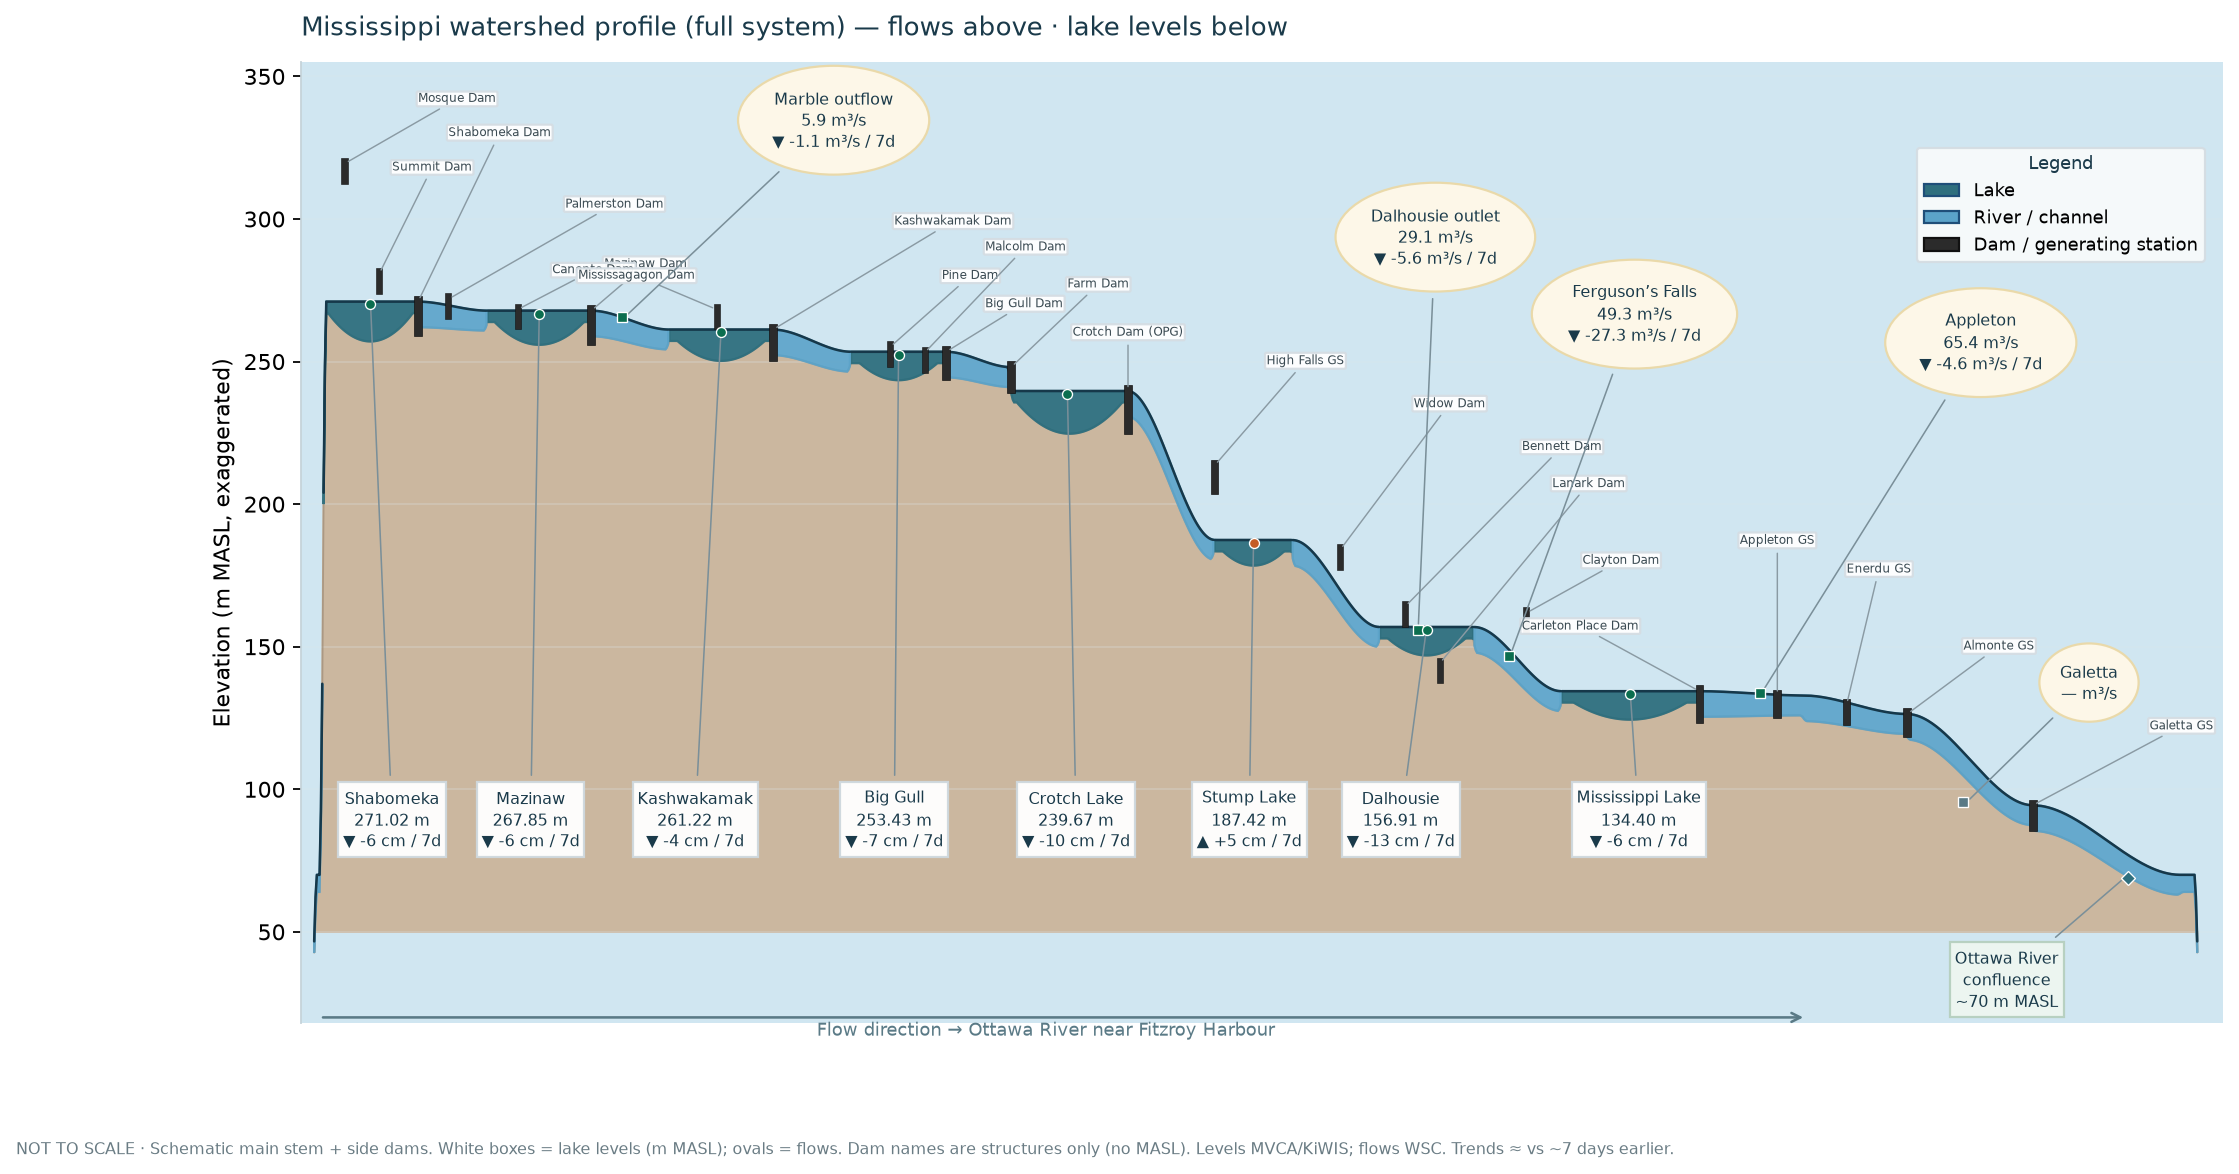
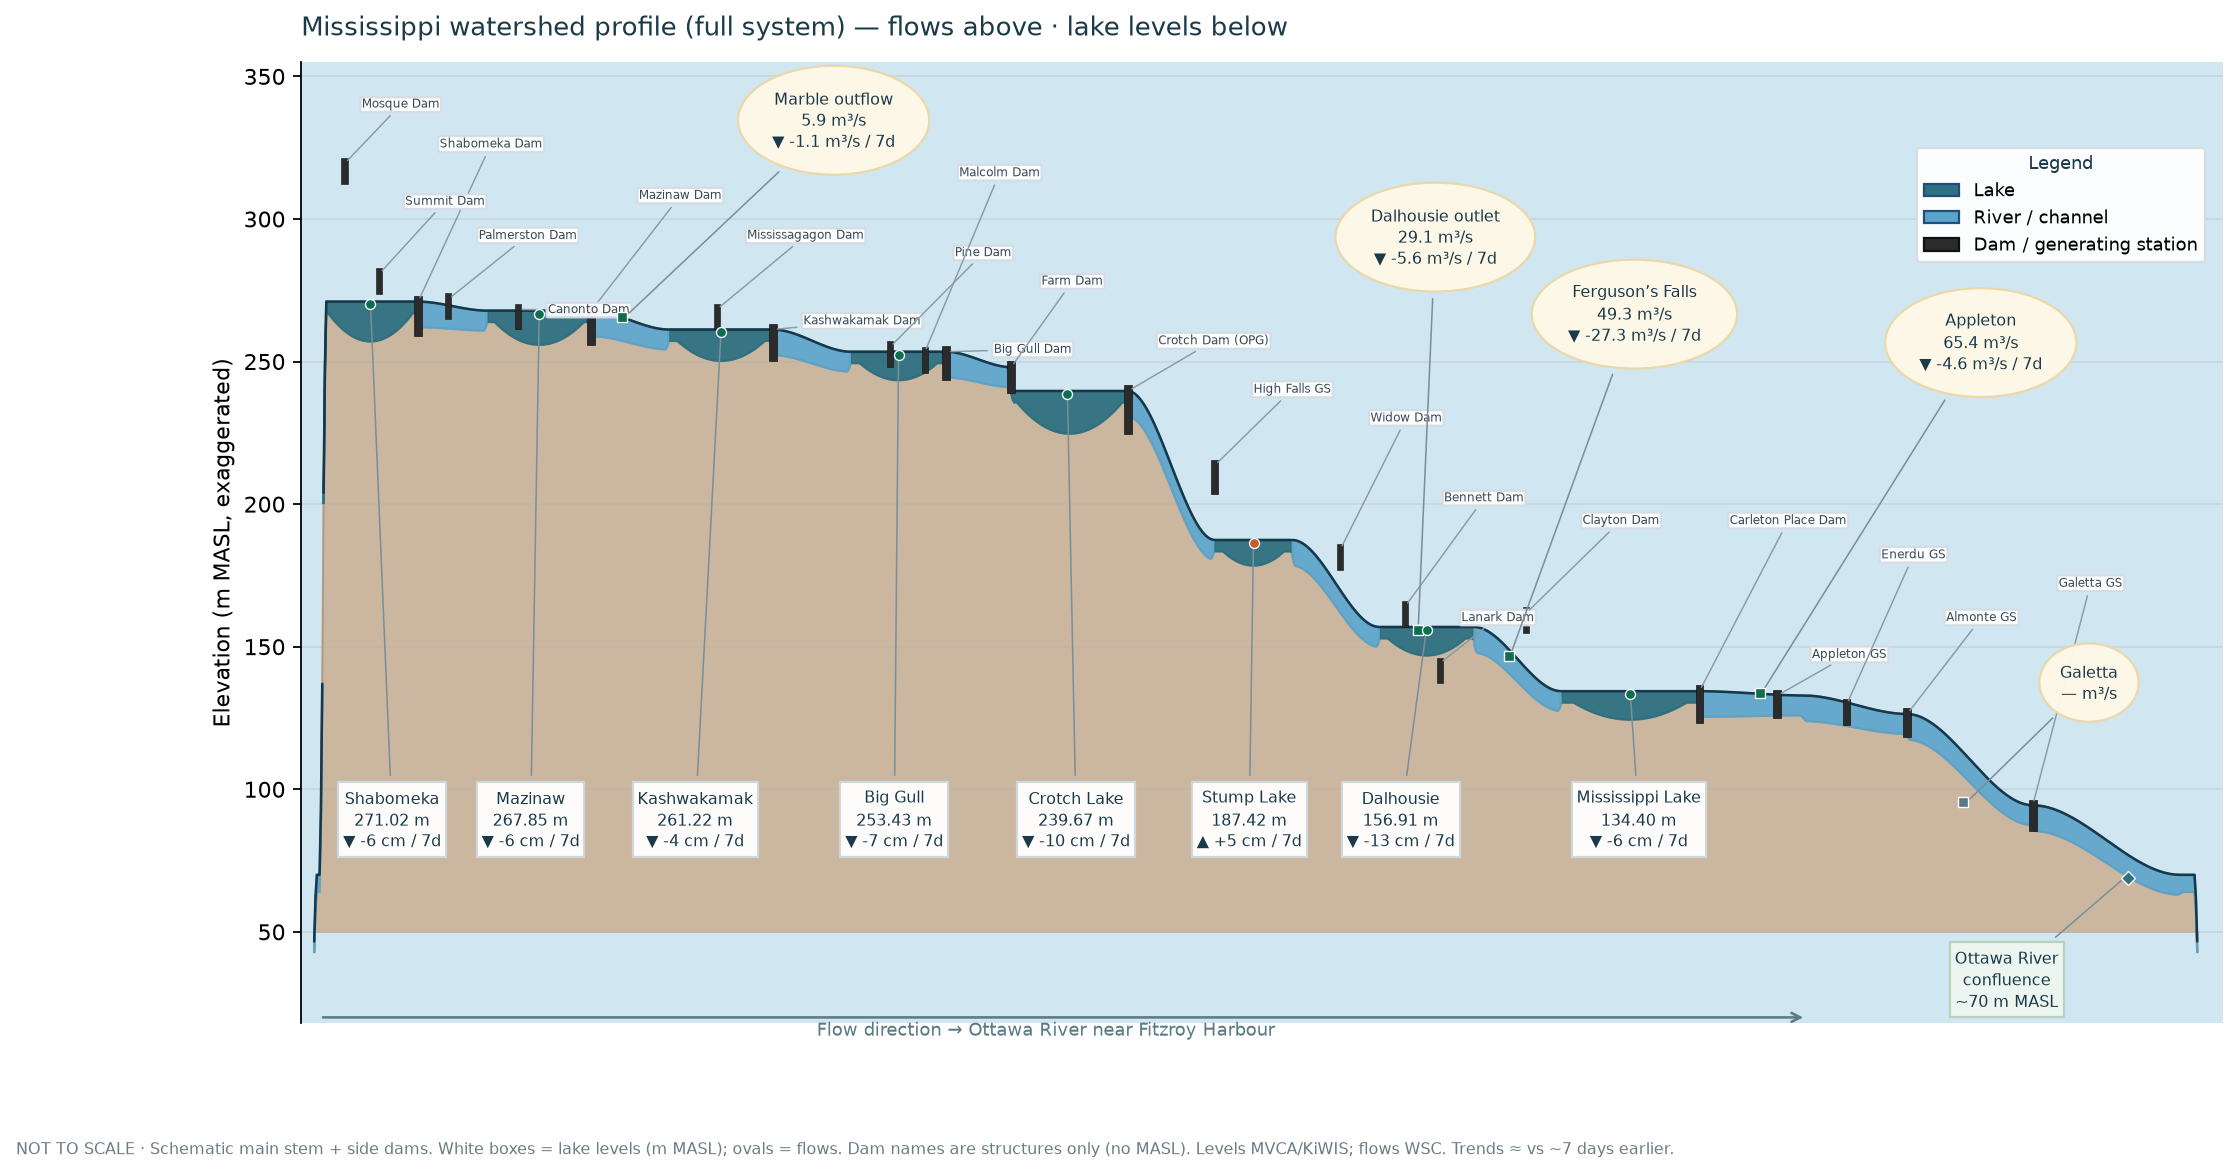
Stagger full-system dam names to the right so they no longer overlap.
Leaders may cross flow-oval lines; names stay clear of the ovals and the lake-level row is unchanged.

diff --git a/index.html b/index.html
@@ -239,7 +239,7 @@
           </tr>
           <tr>
             <td style="padding:0 24px 16px 24px;" align="center">
-              <img src="watershed_full_profile.png?v=2c8c22b7" width="592" class="chart-thumb" alt="Full Mississippi watershed elevation profile with dams, lake levels, flows, and 7-day trends — click to enlarge" onclick="openChart('watershed_full_profile.png?v=2c8c22b7')" title="Click to view full screen">
+              <img src="watershed_full_profile.png?v=79a6a948" width="592" class="chart-thumb" alt="Full Mississippi watershed elevation profile with dams, lake levels, flows, and 7-day trends — click to enlarge" onclick="openChart('watershed_full_profile.png?v=79a6a948')" title="Click to view full screen">
             </td>
           </tr>
           <tr>

diff --git a/update_site.py b/update_site.py
@@ -1267,33 +1267,33 @@ def render_watershed_full_chart(series: dict) -> bool:
     d_almonte = draw_dam(18.55, z_almonte, height=8)
     d_galetta = draw_dam(20.00, z_galetta, height=9)
 
-    # Dam labels — above-right of crests, short down-left leads (per markup)
-    dam_lead(*d_shab, "Shabomeka Dam", 1.70, 328)
-    dam_lead(*d_maz, "Mazinaw Dam", 3.50, 282)
-    dam_lead(*d_kash, "Kashwakamak Dam", 6.85, 297)
-    dam_lead(*d_gull, "Big Gull Dam", 7.90, 268)
-    dam_lead(*d_farm, "Farm Dam", 8.85, 275, fontsize=5.3)
-    dam_lead(*d_crotch, "Crotch Dam (OPG)", 9.55, 258, ha="center")
-    dam_lead(*d_hf, "High Falls GS", 11.15, 248)
-    dam_lead(*d_cp, "Carleton Place Dam", 15.45, 155, fontsize=5.3, ha="right")
-    dam_lead(*d_apgs, "Appleton GS", 17.05, 185, fontsize=5.3, ha="center")
-    dam_lead(*d_enerdu, "Enerdu GS", 17.85, 175, fontsize=5.3)
-    dam_lead(*d_almonte, "Almonte GS", 19.20, 148, fontsize=5.3)
-    dam_lead(*d_galetta, "Galetta GS", 21.35, 120, fontsize=5.3)
+    # Dam labels — all lean right (ha=left); staggered so boxes never overlap ovals
+    dam_lead(*d_shab, "Shabomeka Dam", 1.60, 324)
+    dam_lead(*d_maz, "Mazinaw Dam", 3.90, 306)
+    dam_lead(*d_kash, "Kashwakamak Dam", 5.80, 262)
+    dam_lead(*d_gull, "Big Gull Dam", 8.00, 252)
+    dam_lead(*d_farm, "Farm Dam", 8.55, 276, fontsize=5.3)
+    dam_lead(*d_crotch, "Crotch Dam (OPG)", 9.90, 255)
+    dam_lead(*d_hf, "High Falls GS", 11.00, 238)
+    dam_lead(*d_cp, "Carleton Place Dam", 16.50, 192, fontsize=5.3)
+    dam_lead(*d_apgs, "Appleton GS", 17.45, 145, fontsize=5.3)
+    dam_lead(*d_enerdu, "Enerdu GS", 18.25, 180, fontsize=5.3)
+    dam_lead(*d_almonte, "Almonte GS", 19.00, 158, fontsize=5.3)
+    dam_lead(*d_galetta, "Galetta GS", 20.30, 170, fontsize=5.3)
 
-    # Side dams — same above-right pattern; Summit tucked left to clear Mosque
+    # Side dams — same right-lean, vertical stagger, clear of flow ovals
     side_dams = [
-        (0.50, z_mosque, "Mosque Dam", 1.35, 340, "left"),
-        (0.90, z_summit, "Summit Dam", 1.05, 316, "left"),
-        (1.70, z_palm, "Palmerston Dam", 3.05, 303, "left"),
-        (2.50, z_can, "Canonto Dam", 2.90, 280, "left"),
-        (4.80, z_missag, "Mississagagon Dam", 4.55, 278, "right"),
-        (6.80, z_pine, "Pine Dam", 7.40, 278, "left"),
-        (7.20, z_malc, "Malcolm Dam", 7.90, 288, "left"),
-        (12.00, z_widow, "Widow Dam", 12.85, 233, "left"),
-        (12.75, (z_widow + z_lanark) / 2, "Bennett Dam", 14.10, 218, "left"),
-        (13.15, z_lanark, "Lanark Dam", 14.45, 205, "left"),
-        (14.15, z_clay, "Clayton Dam", 14.80, 178, "left"),
+        (0.50, z_mosque, "Mosque Dam", 0.70, 338, "left"),
+        (0.90, z_summit, "Summit Dam", 1.20, 304, "left"),
+        (1.70, z_palm, "Palmerston Dam", 2.05, 292, "left"),
+        (2.50, z_can, "Canonto Dam", 2.85, 266, "left"),
+        (4.80, z_missag, "Mississagagon Dam", 5.15, 292, "left"),
+        (6.80, z_pine, "Pine Dam", 7.55, 286, "left"),
+        (7.20, z_malc, "Malcolm Dam", 7.60, 314, "left"),
+        (12.00, z_widow, "Widow Dam", 12.35, 228, "left"),
+        (12.75, (z_widow + z_lanark) / 2, "Bennett Dam", 13.20, 200, "left"),
+        (13.15, z_lanark, "Lanark Dam", 13.40, 158, "left"),
+        (14.15, z_clay, "Clayton Dam", 14.80, 192, "left"),
     ]
     for x, z, name, xt, yt, ha in side_dams:
         ax.add_patch(
